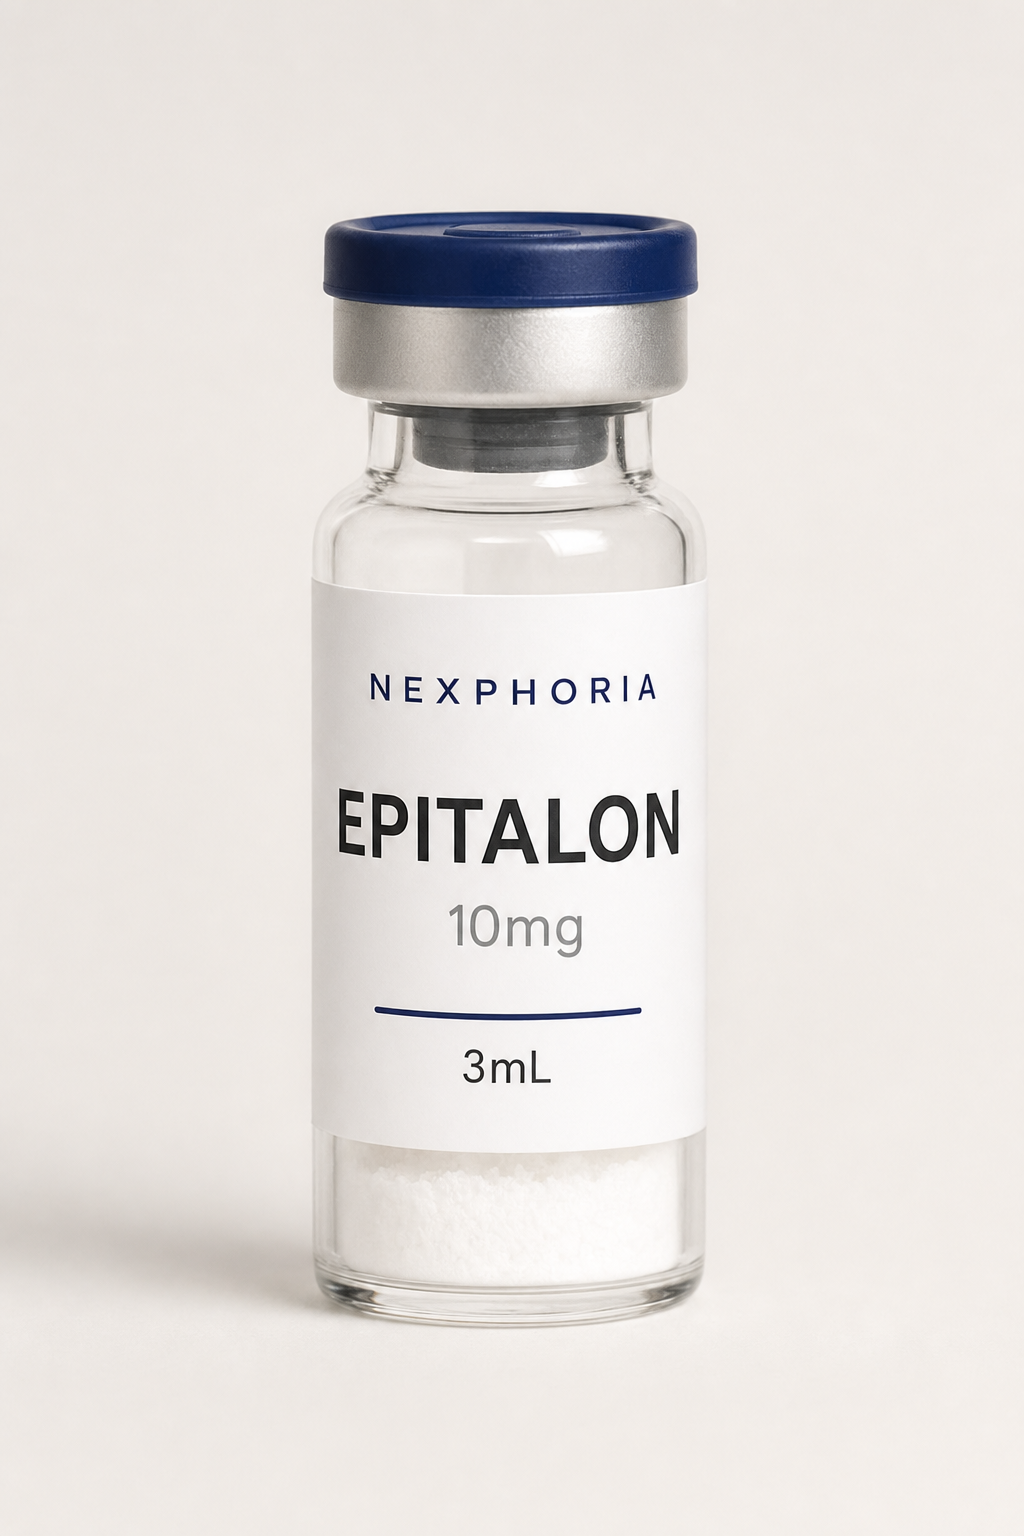
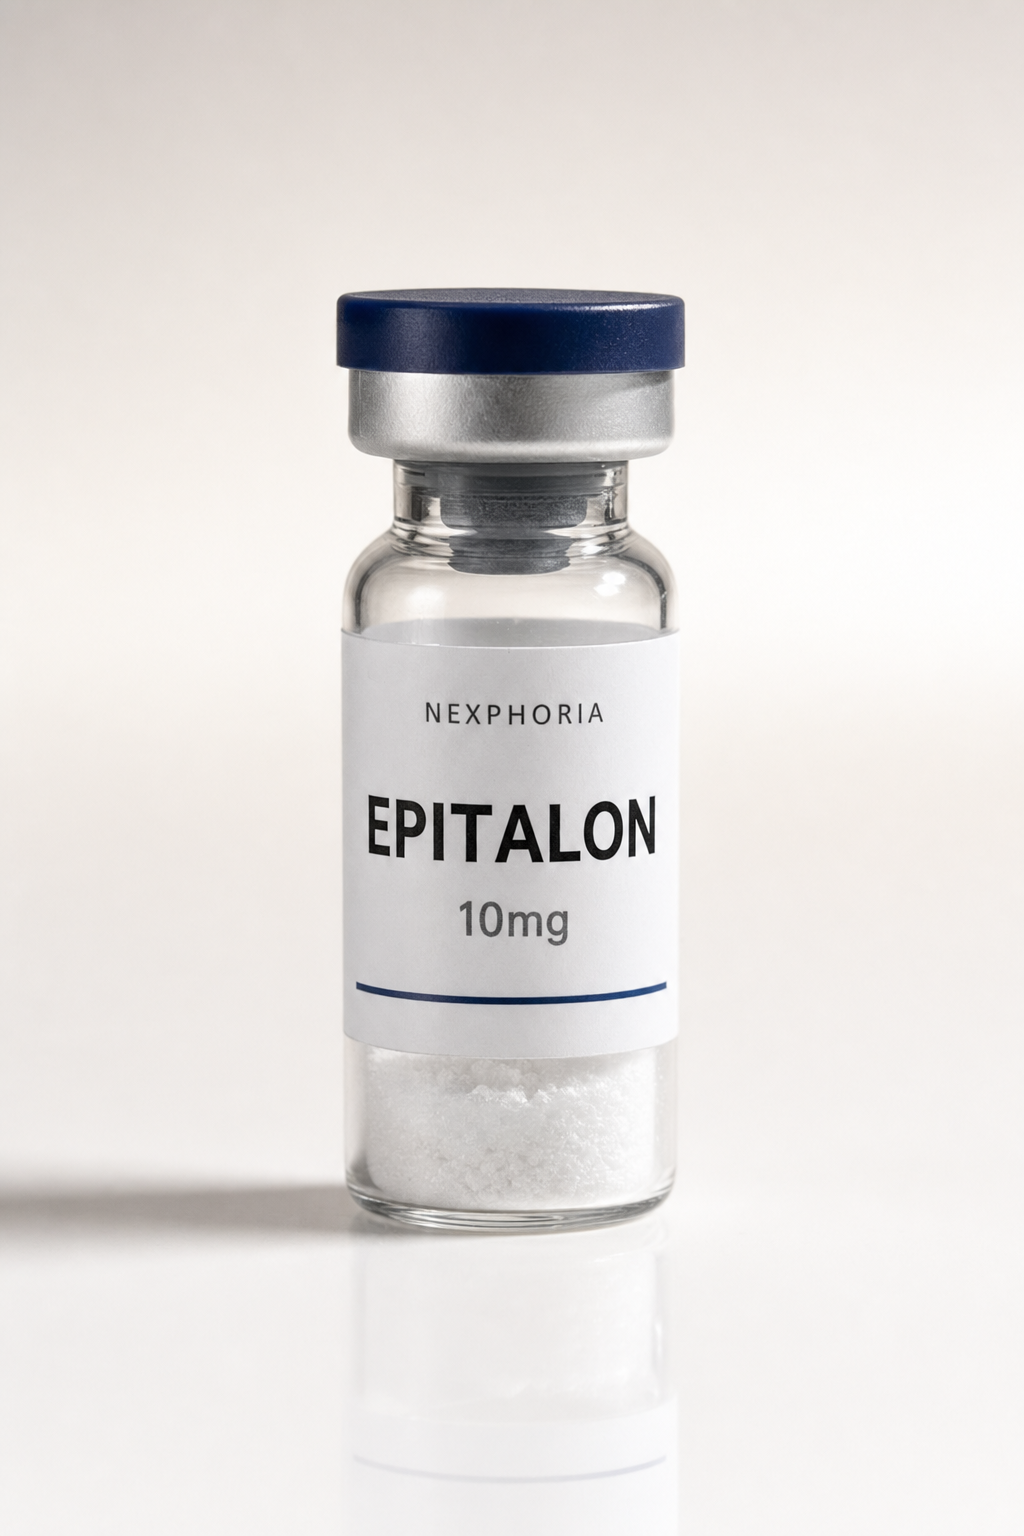
update: studio product photos + MSRP+20% pricing for all 6 launch SKUs

Changed region(s): [[0.0, 0.125, 0.6875, 0.875], [0.0, 0.0, 0.2812, 0.0625]]

diff --git a/src/lib/products-launch.ts b/src/lib/products-launch.ts
@@ -44,11 +44,11 @@ export const launchProducts: LaunchProduct[] = [
     name: "BPC-157",
     dosage: "10mg",
     category: "Recovery & Healing",
-    basePrice: 89,
+    basePrice: 120,
     volumePricing: [
-      { qty: 1, label: "Buy 1", pricePerUnit: 89, totalPrice: 89 },
-      { qty: 3, label: "Research Kit (3)", pricePerUnit: 84, totalPrice: 252 },
-      { qty: 6, label: "Lab Protocol (6+)", pricePerUnit: 79, totalPrice: 474 },
+      { qty: 1, label: "Buy 1", pricePerUnit: 120, totalPrice: 120 },
+      { qty: 3, label: "Research Kit (3)", pricePerUnit: 114, totalPrice: 342 },
+      { qty: 6, label: "Lab Protocol (6+)", pricePerUnit: 108, totalPrice: 648 },
     ],
     tagline: "Stable pentadecapeptide. Tissue repair research compound.",
     description:
@@ -101,11 +101,11 @@ export const launchProducts: LaunchProduct[] = [
     name: "GHK-Cu",
     dosage: "50mg",
     category: "Anti-Aging",
-    basePrice: 79,
+    basePrice: 96,
     volumePricing: [
-      { qty: 1, label: "Buy 1", pricePerUnit: 79, totalPrice: 79 },
-      { qty: 3, label: "Research Kit (3)", pricePerUnit: 74, totalPrice: 222 },
-      { qty: 6, label: "Lab Protocol (6+)", pricePerUnit: 69, totalPrice: 414 },
+      { qty: 1, label: "Buy 1", pricePerUnit: 96, totalPrice: 96 },
+      { qty: 3, label: "Research Kit (3)", pricePerUnit: 91, totalPrice: 273 },
+      { qty: 6, label: "Lab Protocol (6+)", pricePerUnit: 86, totalPrice: 516 },
     ],
     tagline: "Copper peptide complex. Extracellular matrix and regeneration research.",
     description:
@@ -158,11 +158,11 @@ export const launchProducts: LaunchProduct[] = [
     name: "NAD+",
     dosage: "500mg",
     category: "Wellness",
-    basePrice: 149,
+    basePrice: 240,
     volumePricing: [
-      { qty: 1, label: "Buy 1", pricePerUnit: 149, totalPrice: 149 },
-      { qty: 3, label: "Research Kit (3)", pricePerUnit: 139, totalPrice: 417 },
-      { qty: 6, label: "Lab Protocol (6+)", pricePerUnit: 129, totalPrice: 774 },
+      { qty: 1, label: "Buy 1", pricePerUnit: 240, totalPrice: 240 },
+      { qty: 3, label: "Research Kit (3)", pricePerUnit: 228, totalPrice: 684 },
+      { qty: 6, label: "Lab Protocol (6+)", pricePerUnit: 216, totalPrice: 1296 },
     ],
     tagline: "Nicotinamide adenine dinucleotide. Essential metabolic coenzyme and sirtuin substrate.",
     description:
@@ -215,11 +215,11 @@ export const launchProducts: LaunchProduct[] = [
     name: "TB-500",
     dosage: "5mg",
     category: "Recovery & Healing",
-    basePrice: 69,
+    basePrice: 90,
     volumePricing: [
-      { qty: 1, label: "Buy 1", pricePerUnit: 69, totalPrice: 69 },
-      { qty: 3, label: "Research Kit (3)", pricePerUnit: 64, totalPrice: 192 },
-      { qty: 6, label: "Lab Protocol (6+)", pricePerUnit: 59, totalPrice: 354 },
+      { qty: 1, label: "Buy 1", pricePerUnit: 90, totalPrice: 90 },
+      { qty: 3, label: "Research Kit (3)", pricePerUnit: 86, totalPrice: 258 },
+      { qty: 6, label: "Lab Protocol (6+)", pricePerUnit: 81, totalPrice: 486 },
     ],
     tagline: "Thymosin beta-4 fragment. Actin-binding regenerative peptide.",
     description:
@@ -272,11 +272,11 @@ export const launchProducts: LaunchProduct[] = [
     name: "MOTS-c",
     dosage: "10mg",
     category: "Wellness",
-    basePrice: 139,
+    basePrice: 240,
     volumePricing: [
-      { qty: 1, label: "Buy 1", pricePerUnit: 139, totalPrice: 139 },
-      { qty: 3, label: "Research Kit (3)", pricePerUnit: 129, totalPrice: 387 },
-      { qty: 6, label: "Lab Protocol (6+)", pricePerUnit: 119, totalPrice: 714 },
+      { qty: 1, label: "Buy 1", pricePerUnit: 240, totalPrice: 240 },
+      { qty: 3, label: "Research Kit (3)", pricePerUnit: 228, totalPrice: 684 },
+      { qty: 6, label: "Lab Protocol (6+)", pricePerUnit: 216, totalPrice: 1296 },
     ],
     tagline: "Mitochondrial-derived peptide. Metabolic regulation and longevity research.",
     description:
@@ -329,11 +329,11 @@ export const launchProducts: LaunchProduct[] = [
     name: "Epitalon",
     dosage: "10mg",
     category: "Anti-Aging",
-    basePrice: 89,
+    basePrice: 120,
     volumePricing: [
-      { qty: 1, label: "Buy 1", pricePerUnit: 89, totalPrice: 89 },
-      { qty: 3, label: "Research Kit (3)", pricePerUnit: 84, totalPrice: 252 },
-      { qty: 6, label: "Lab Protocol (6+)", pricePerUnit: 79, totalPrice: 474 },
+      { qty: 1, label: "Buy 1", pricePerUnit: 120, totalPrice: 120 },
+      { qty: 3, label: "Research Kit (3)", pricePerUnit: 114, totalPrice: 342 },
+      { qty: 6, label: "Lab Protocol (6+)", pricePerUnit: 108, totalPrice: 648 },
     ],
     tagline: "Pineal tetrapeptide. Telomerase activation and circadian regulation research.",
     description: